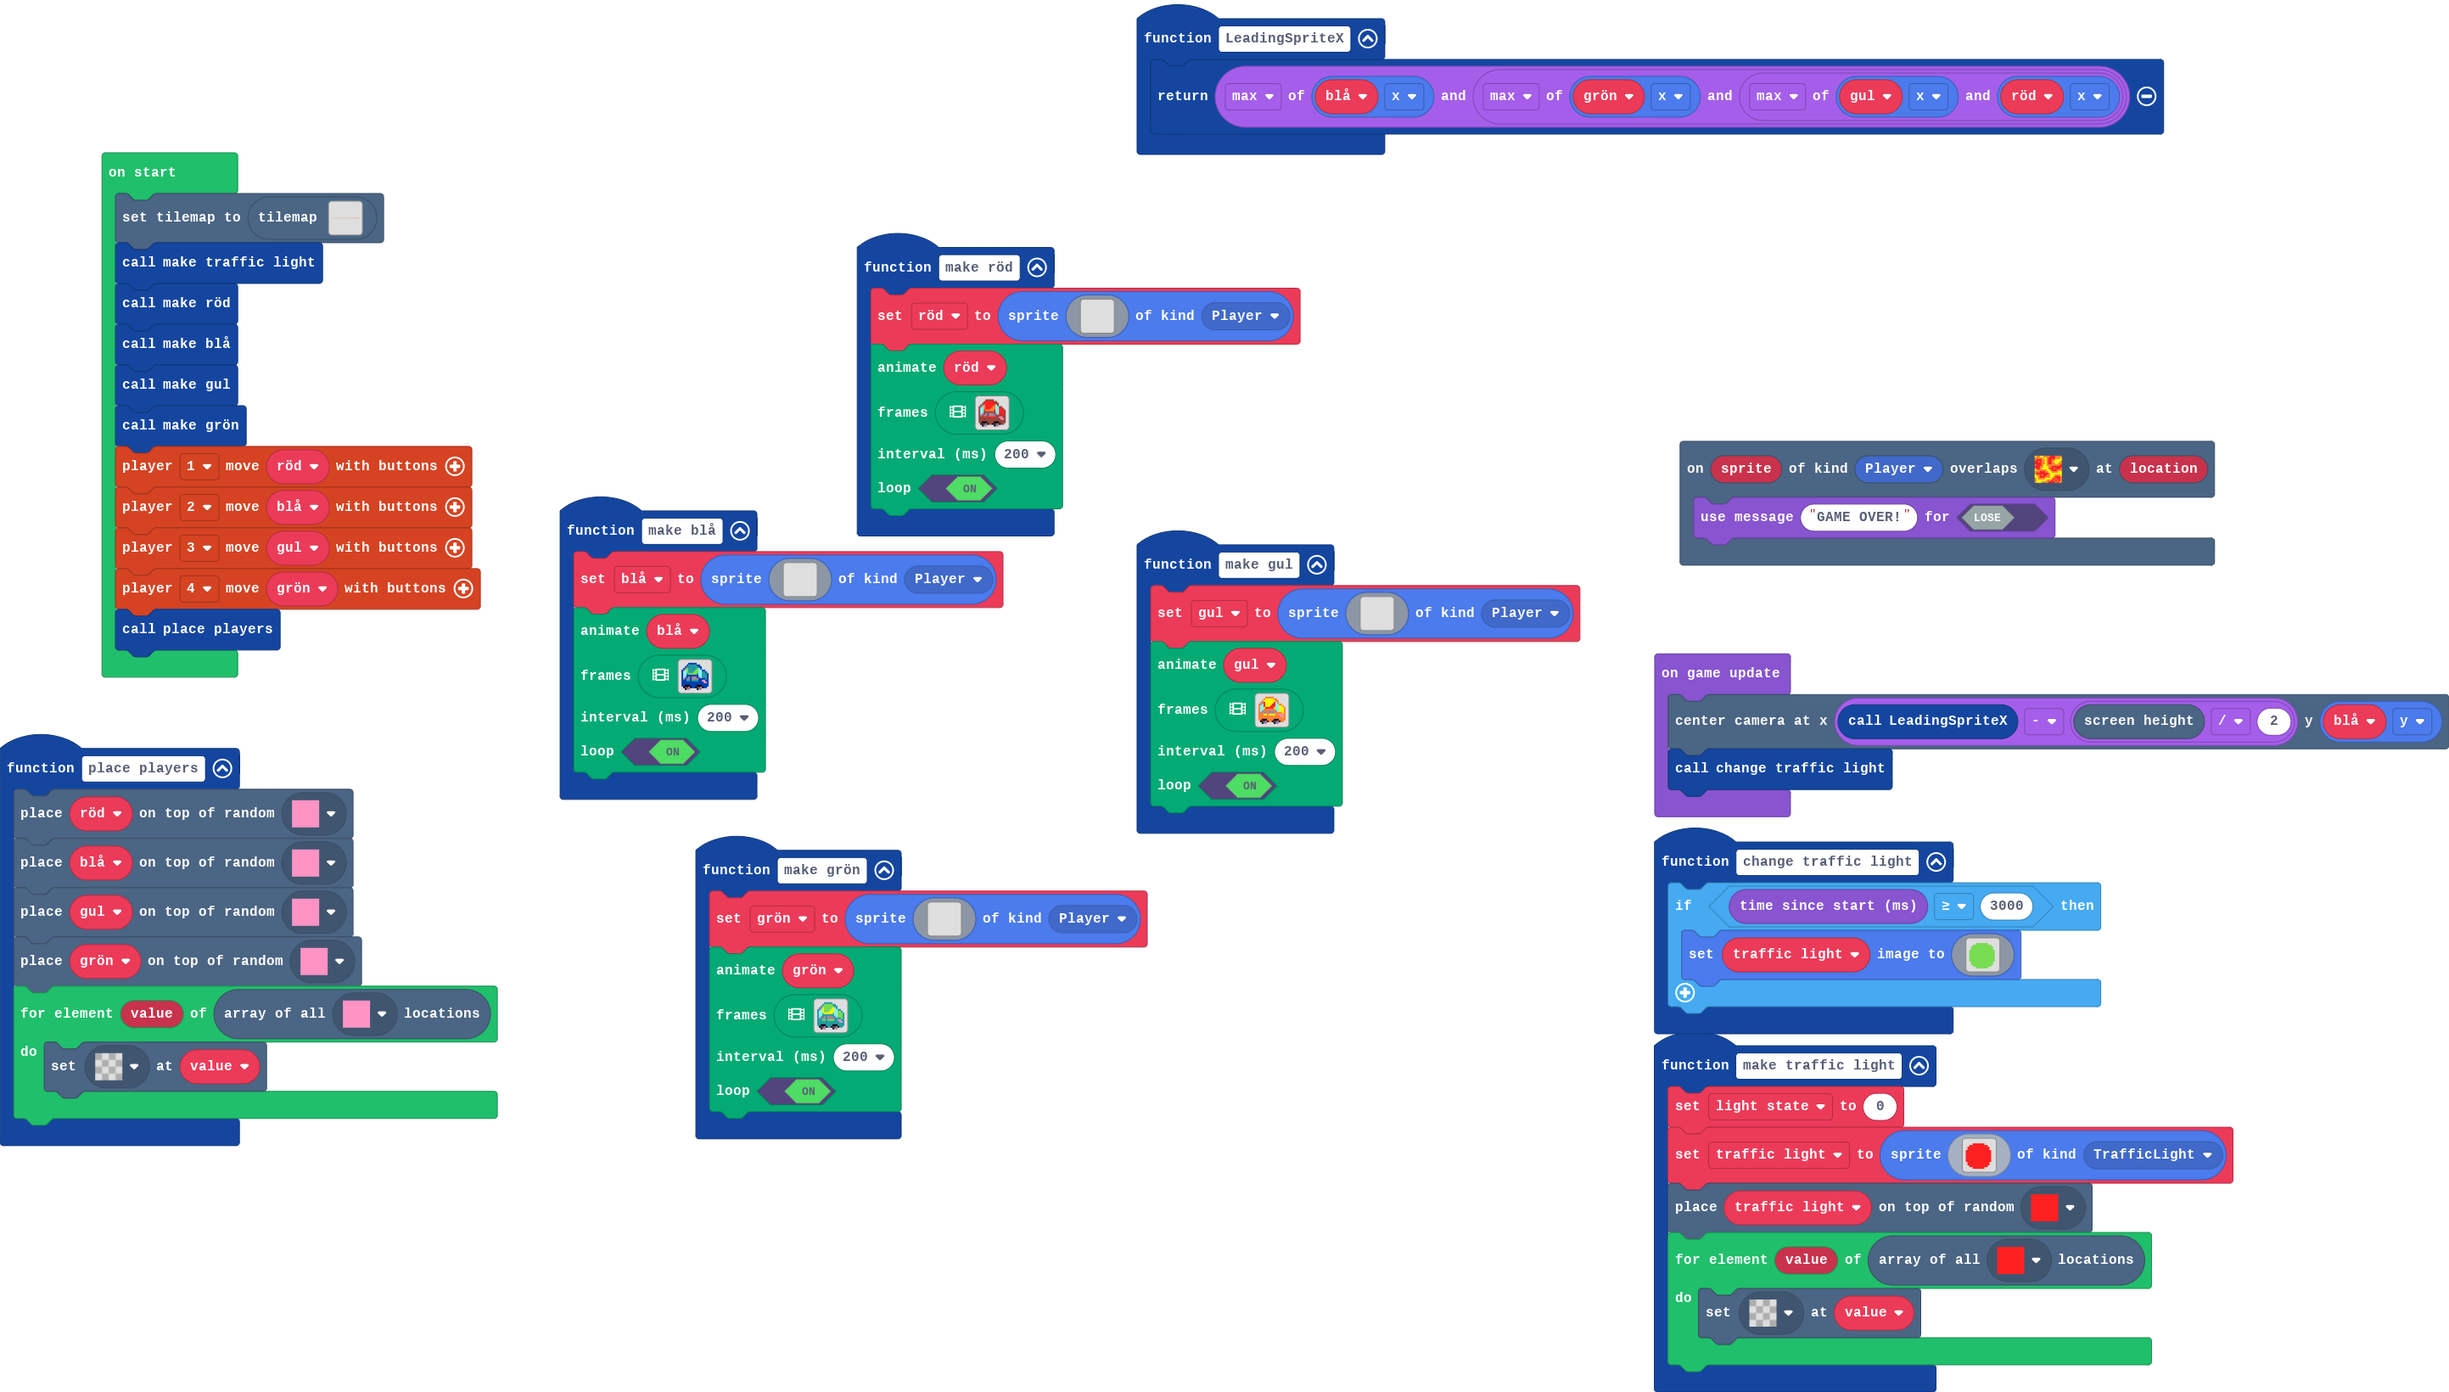
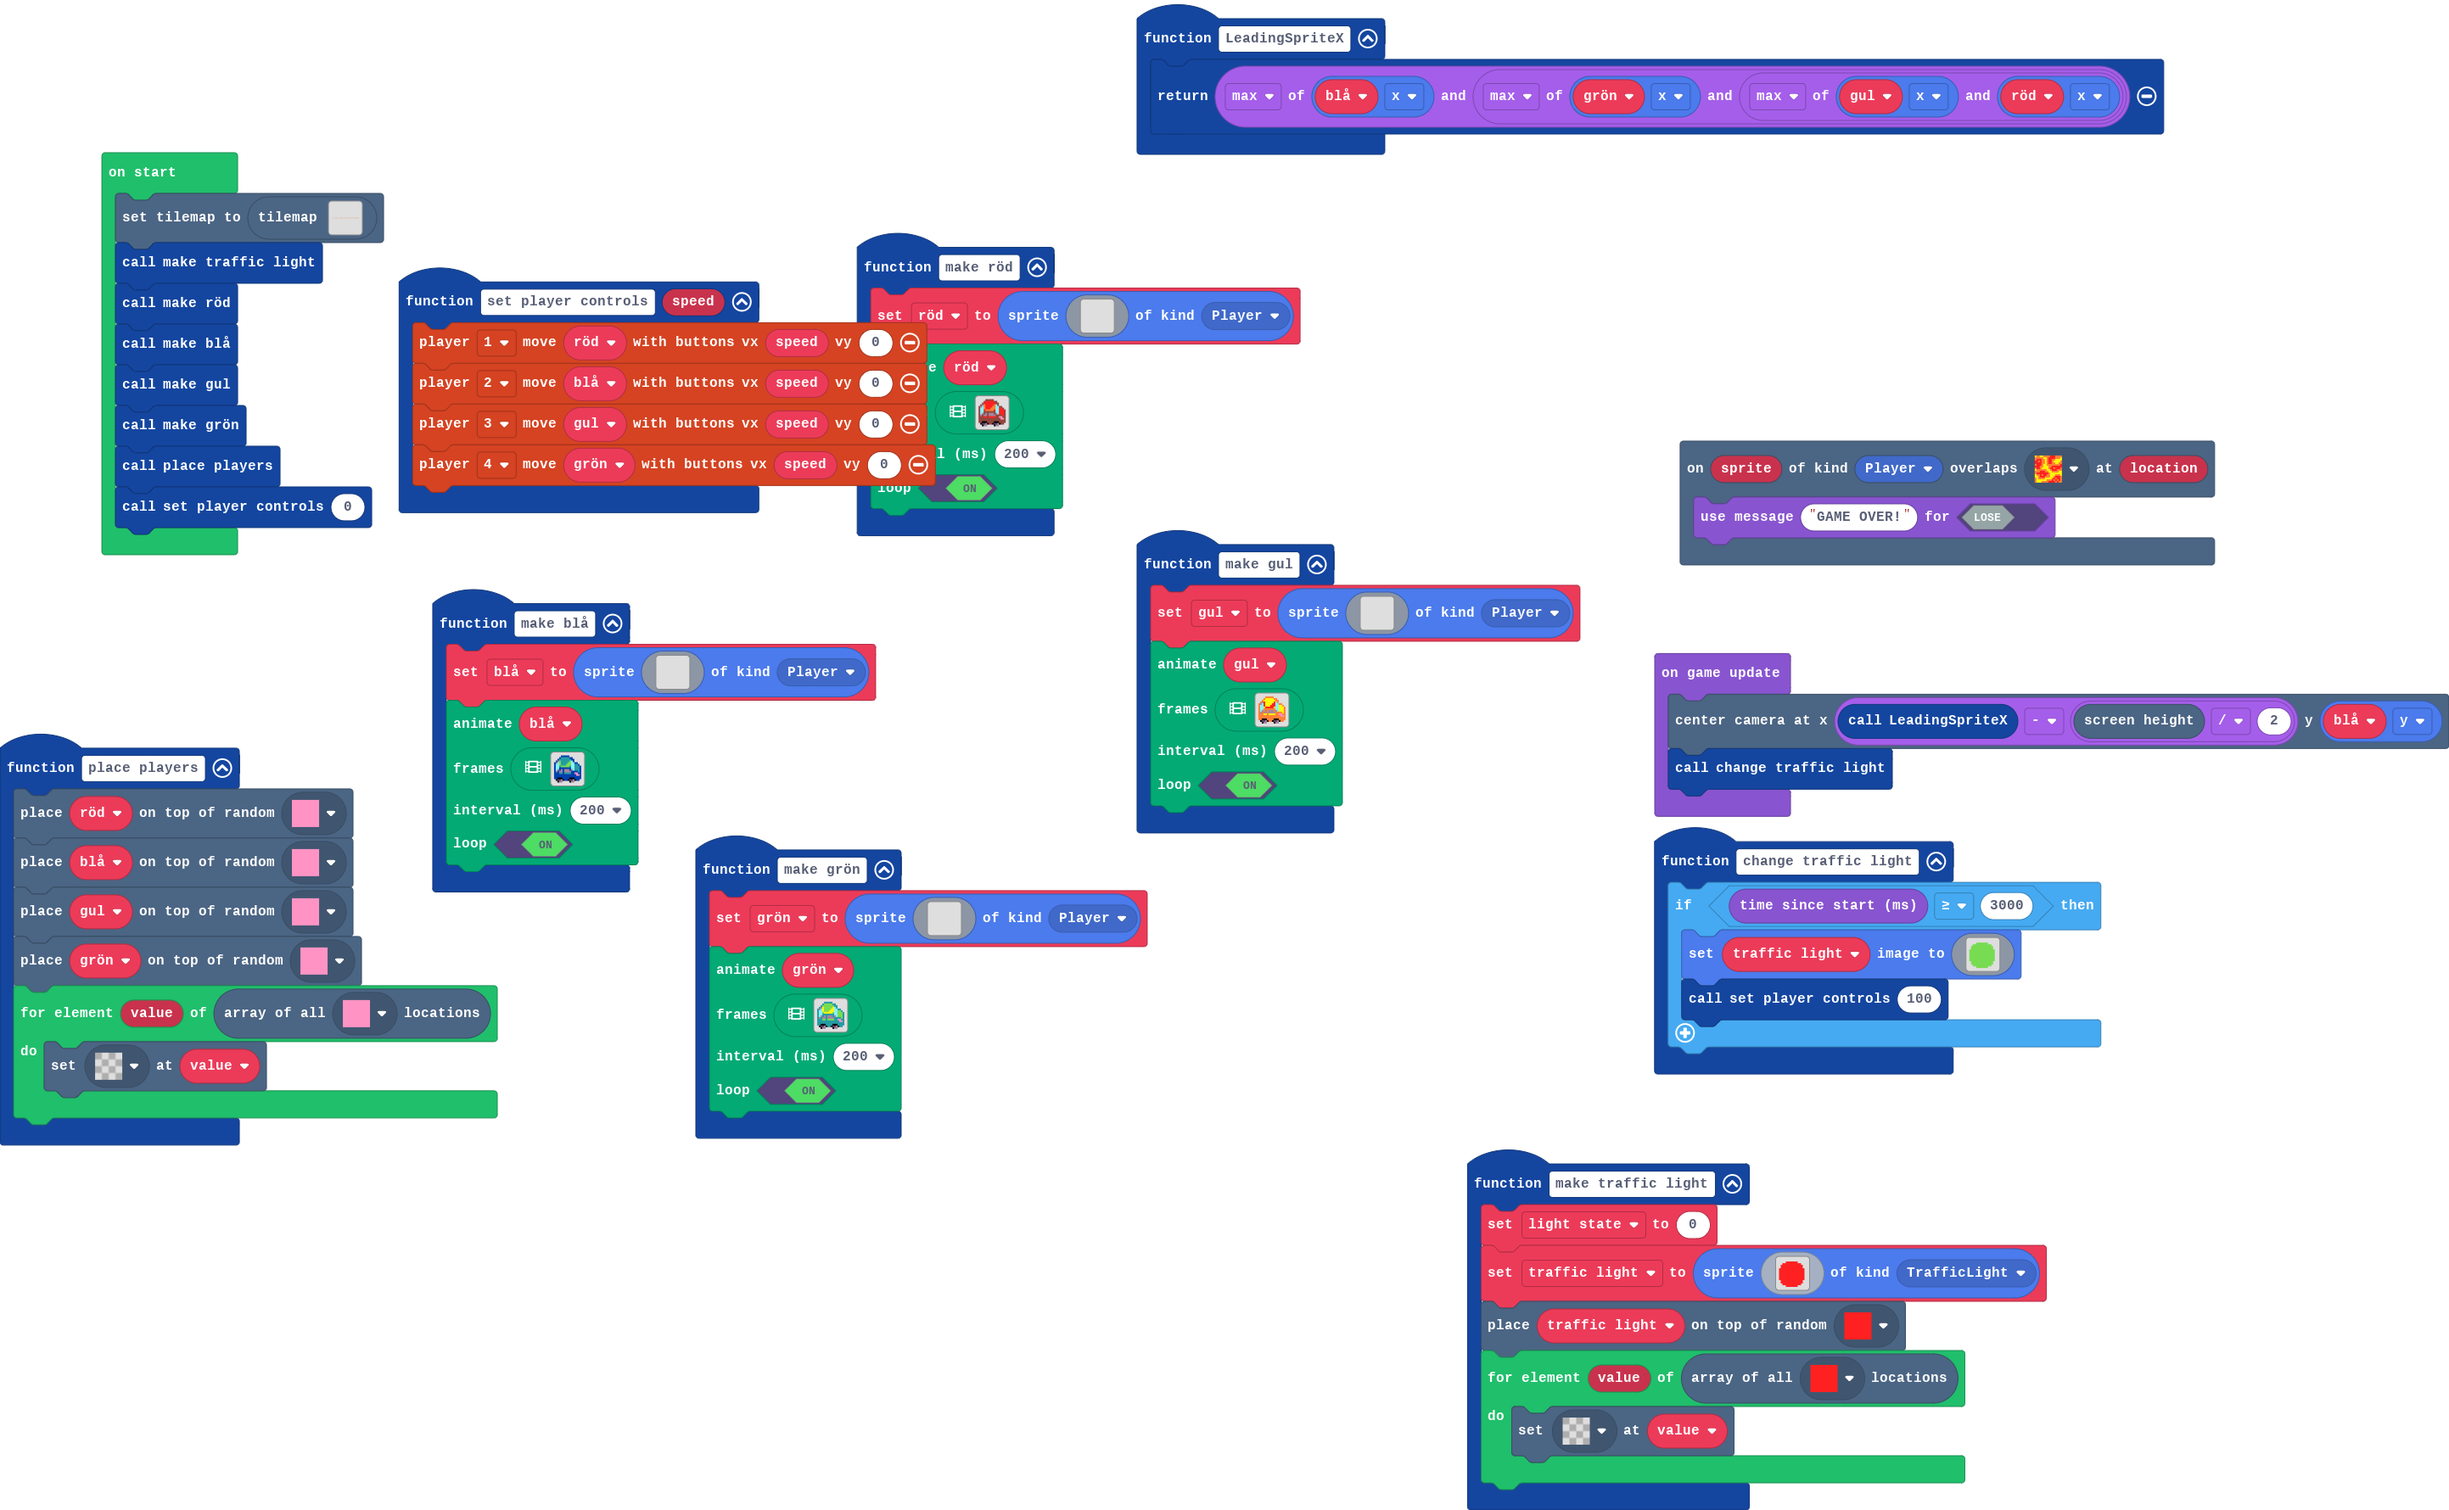
Add speed control with traffic light

diff --git a/main.ts b/main.ts
@@ -21,6 +21,7 @@ function change_traffic_light () {
             . . 7 7 7 7 7 7 7 7 7 7 7 . . . 
             . . . . 7 7 7 7 7 7 7 . . . . . 
             `)
+        set_player_controls(100)
     }
 }
 function make_grön () {
@@ -336,6 +337,12 @@ function make_traffic_light () {
 function LeadingSpriteX () {
     return Math.max(blå.x, Math.max(grön.x, Math.max(gul.x, röd.x)))
 }
+function set_player_controls (speed: number) {
+    controller.player1.moveSprite(röd, speed, 0)
+    controller.player2.moveSprite(blå, speed, 0)
+    controller.player3.moveSprite(gul, speed, 0)
+    controller.player4.moveSprite(grön, speed, 0)
+}
 function place_players () {
     tiles.placeOnRandomTile(röd, assets.tile`myTile1`)
     tiles.placeOnRandomTile(blå, assets.tile`myTile1`)
@@ -439,23 +446,20 @@ function make_blå () {
     true
     )
 }
-let light_state = 0
-let traffic_light: Sprite = null
-let grön: Sprite = null
-let gul: Sprite = null
 let blå: Sprite = null
+let light_state = 0
 let röd: Sprite = null
+let gul: Sprite = null
+let grön: Sprite = null
+let traffic_light: Sprite = null
 tiles.setCurrentTilemap(tilemap`level2`)
 make_traffic_light()
 make_röd()
 make_blå()
 make_gul()
 make_grön()
-controller.player1.moveSprite(röd)
-controller.player2.moveSprite(blå)
-controller.player3.moveSprite(gul)
-controller.player4.moveSprite(grön)
 place_players()
+set_player_controls(0)
 game.onUpdate(function () {
     scene.centerCameraAt(LeadingSpriteX() - scene.screenHeight() / 2, blå.y)
     change_traffic_light()
